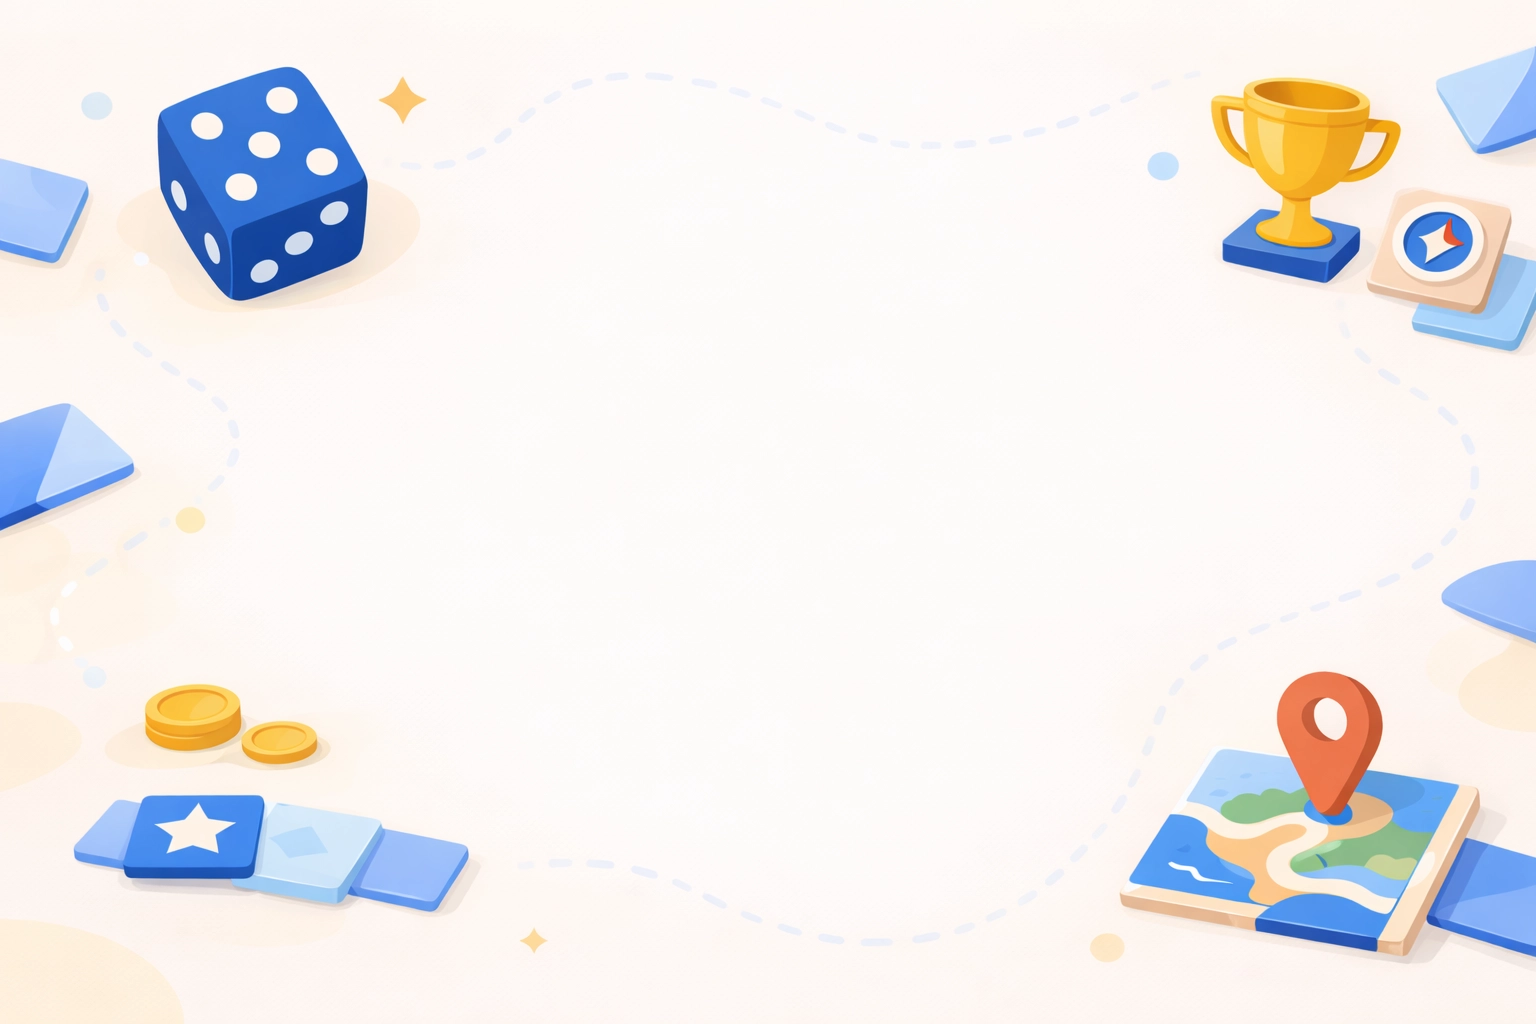
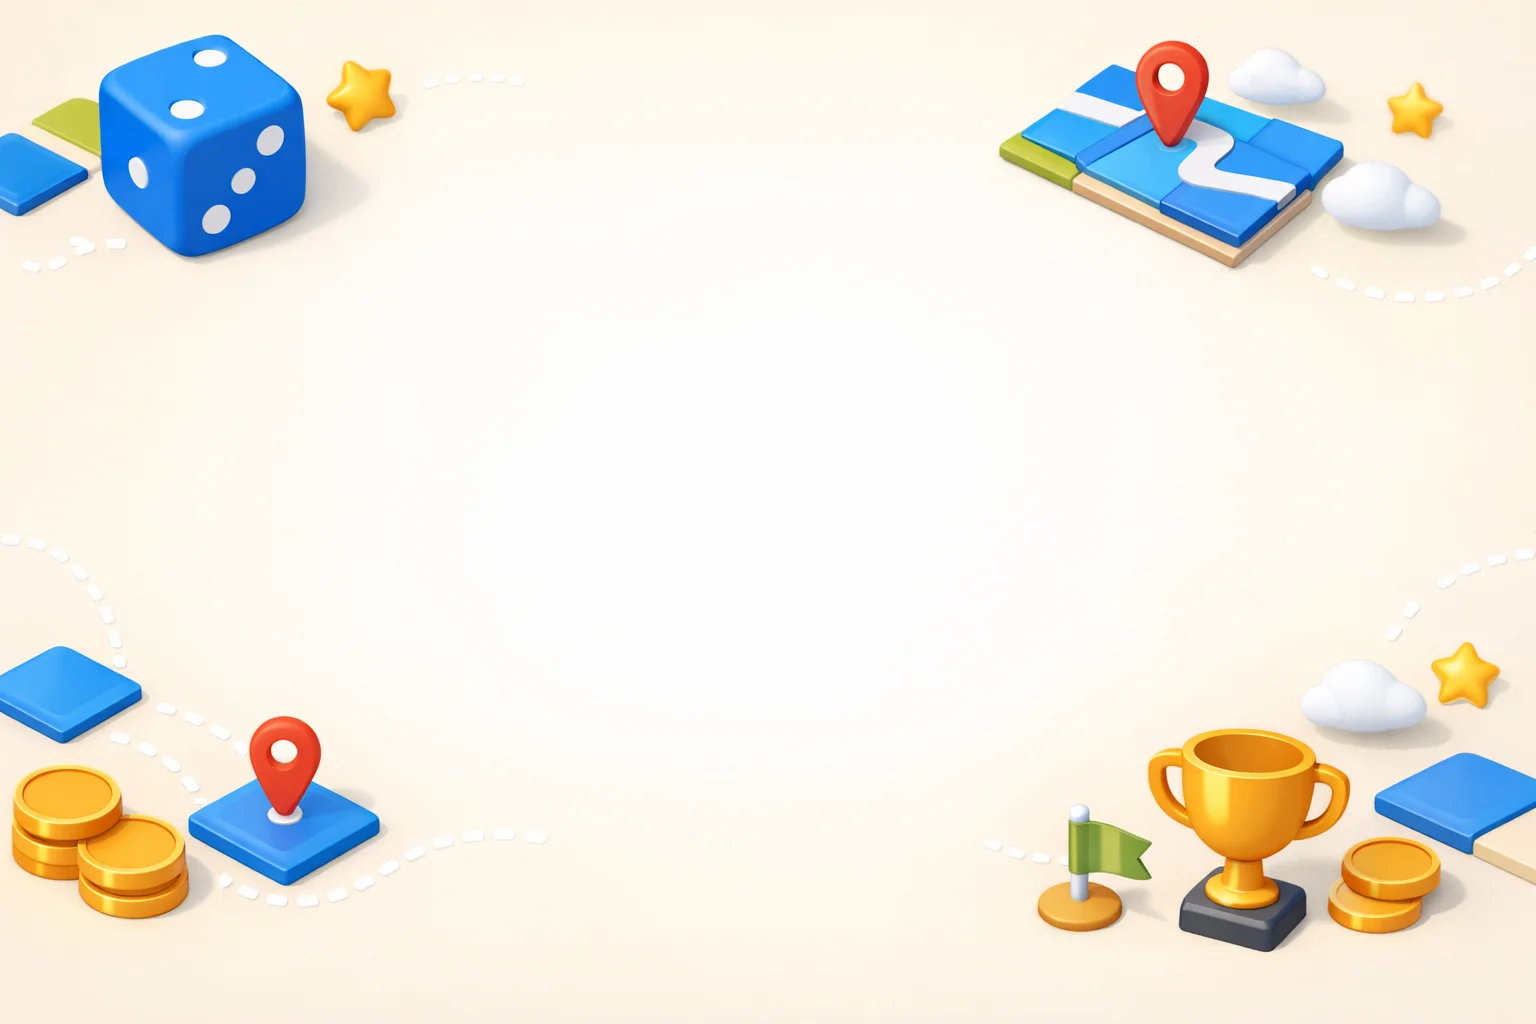
feat: 홈페이지 배경 이미지 교체

diff --git a/src/pages/HomePage.tsx b/src/pages/HomePage.tsx
@@ -77,15 +77,12 @@ function HomePage() {
     <div className="relative min-h-screen overflow-hidden bg-ui-app-bg px-4 py-5 sm:px-8 sm:py-6 lg:py-8">
       {/* 브랜드 중심을 받쳐주는 배경 레이어 */}
       <div className="pointer-events-none absolute inset-0">
-        <picture>
-          <source srcSet="/HomePage_background.webp" type="image/webp" />
-          <img
-            src="/HomePage_background.jpg"
-            alt=""
-            aria-hidden="true"
-            className="absolute inset-0 h-full w-full object-cover object-center"
-          />
-        </picture>
+        <img
+          src="/HomePage_background.webp"
+          alt=""
+          aria-hidden="true"
+          className="absolute inset-0 h-full w-full object-cover object-center"
+        />
         <div className="absolute inset-0 bg-[radial-gradient(circle_at_50%_28%,rgba(255,255,255,0.24),transparent_28%),linear-gradient(180deg,rgba(250,248,240,0.1),rgba(250,248,240,0.08))]" />
       </div>
 
@@ -97,8 +94,10 @@ function HomePage() {
           className="w-full max-w-4xl text-center"
         >
           <h1 className="select-none text-[clamp(3.2rem,8vw,5.8rem)] font-extrabold leading-[0.92] tracking-tight text-ui-text-strong">
-            <span className="text-ui-text-strong">MARBLE</span>
-            <span className="ml-1.5 bg-linear-to-r from-ui-brand-strong via-ui-brand to-[#0ea5e9] bg-clip-text text-transparent sm:ml-2">
+            <span className="ui-brand-solid-3d-hero text-ui-text-strong">
+              MARBLE
+            </span>
+            <span className="ui-brand-gradient-3d-hero ml-1.5 bg-linear-to-r from-ui-brand-strong via-ui-brand to-[#0ea5e9] bg-clip-text text-transparent sm:ml-2">
               POP
             </span>
           </h1>
